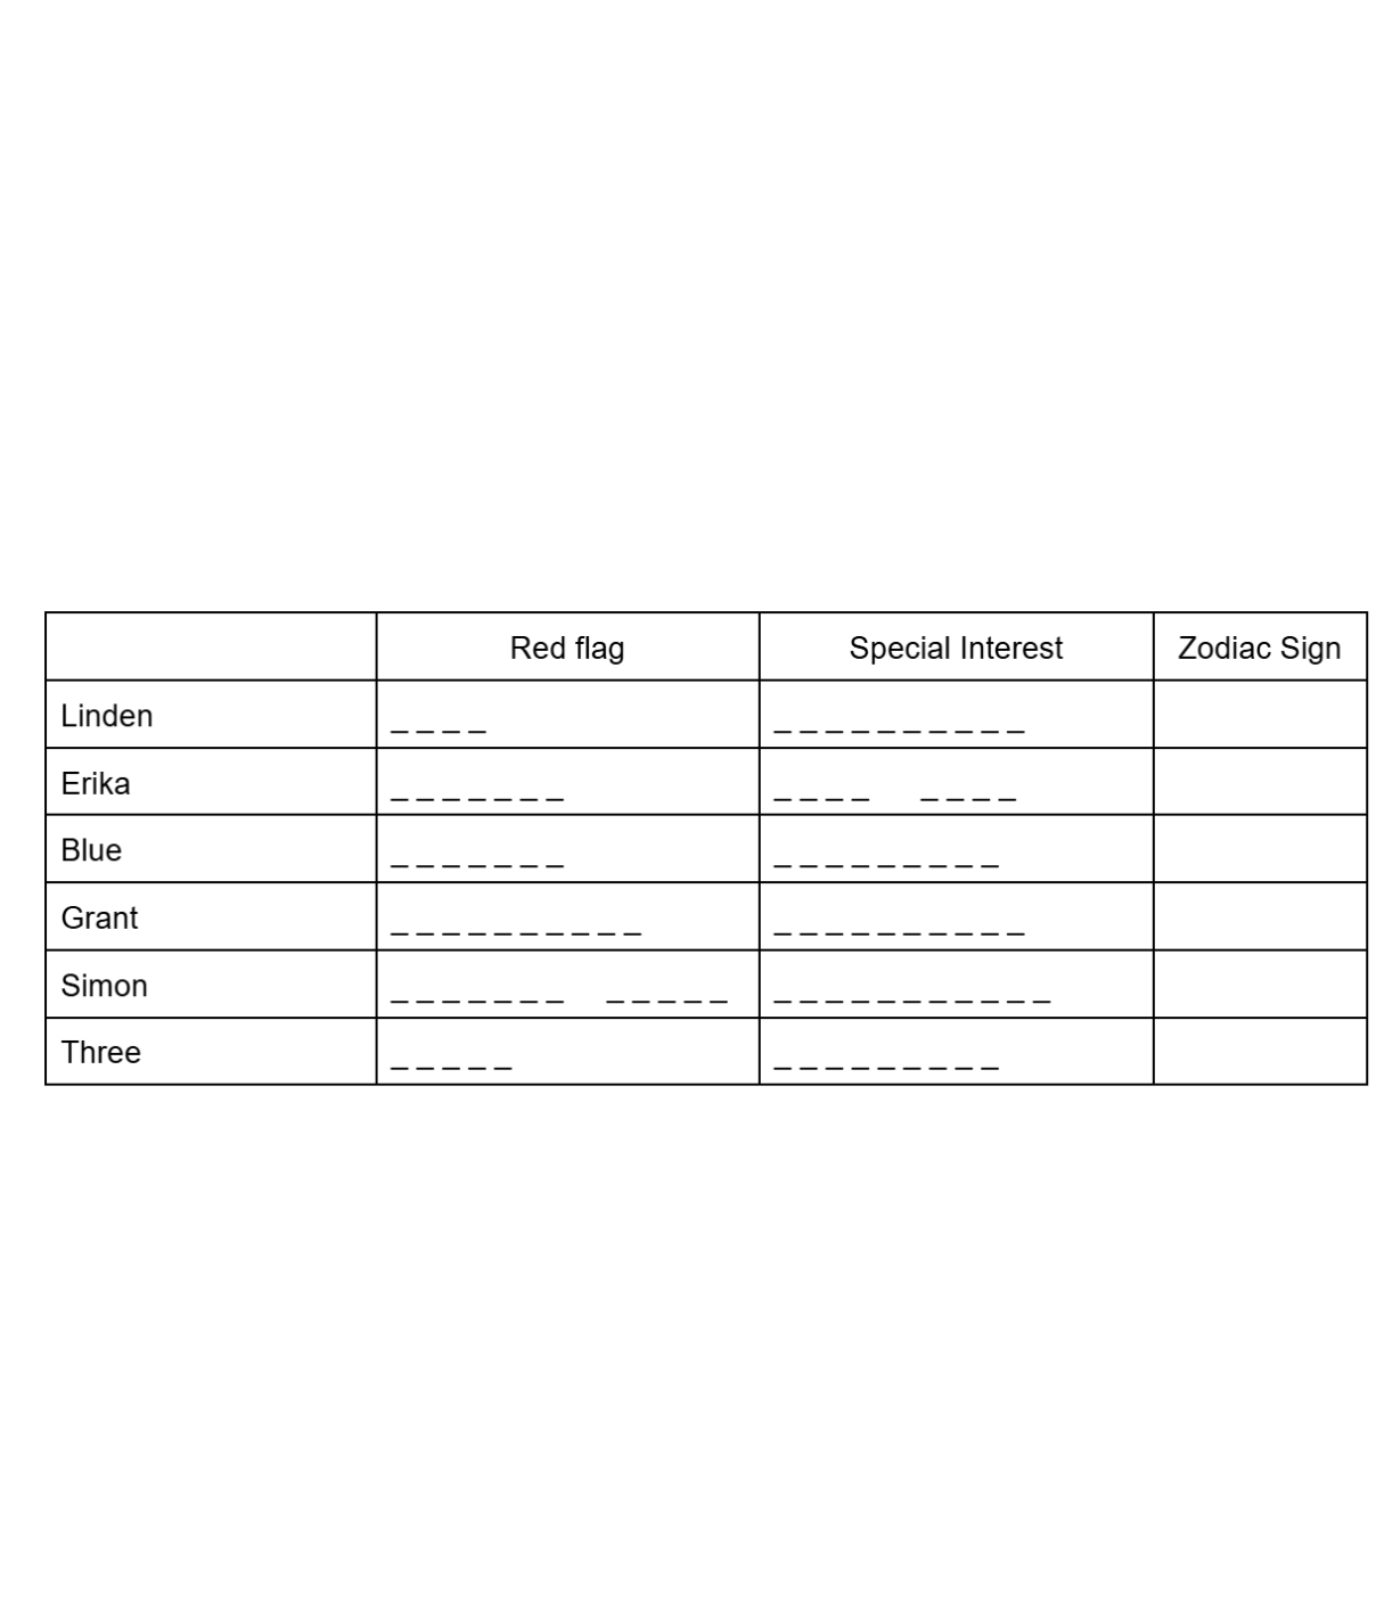
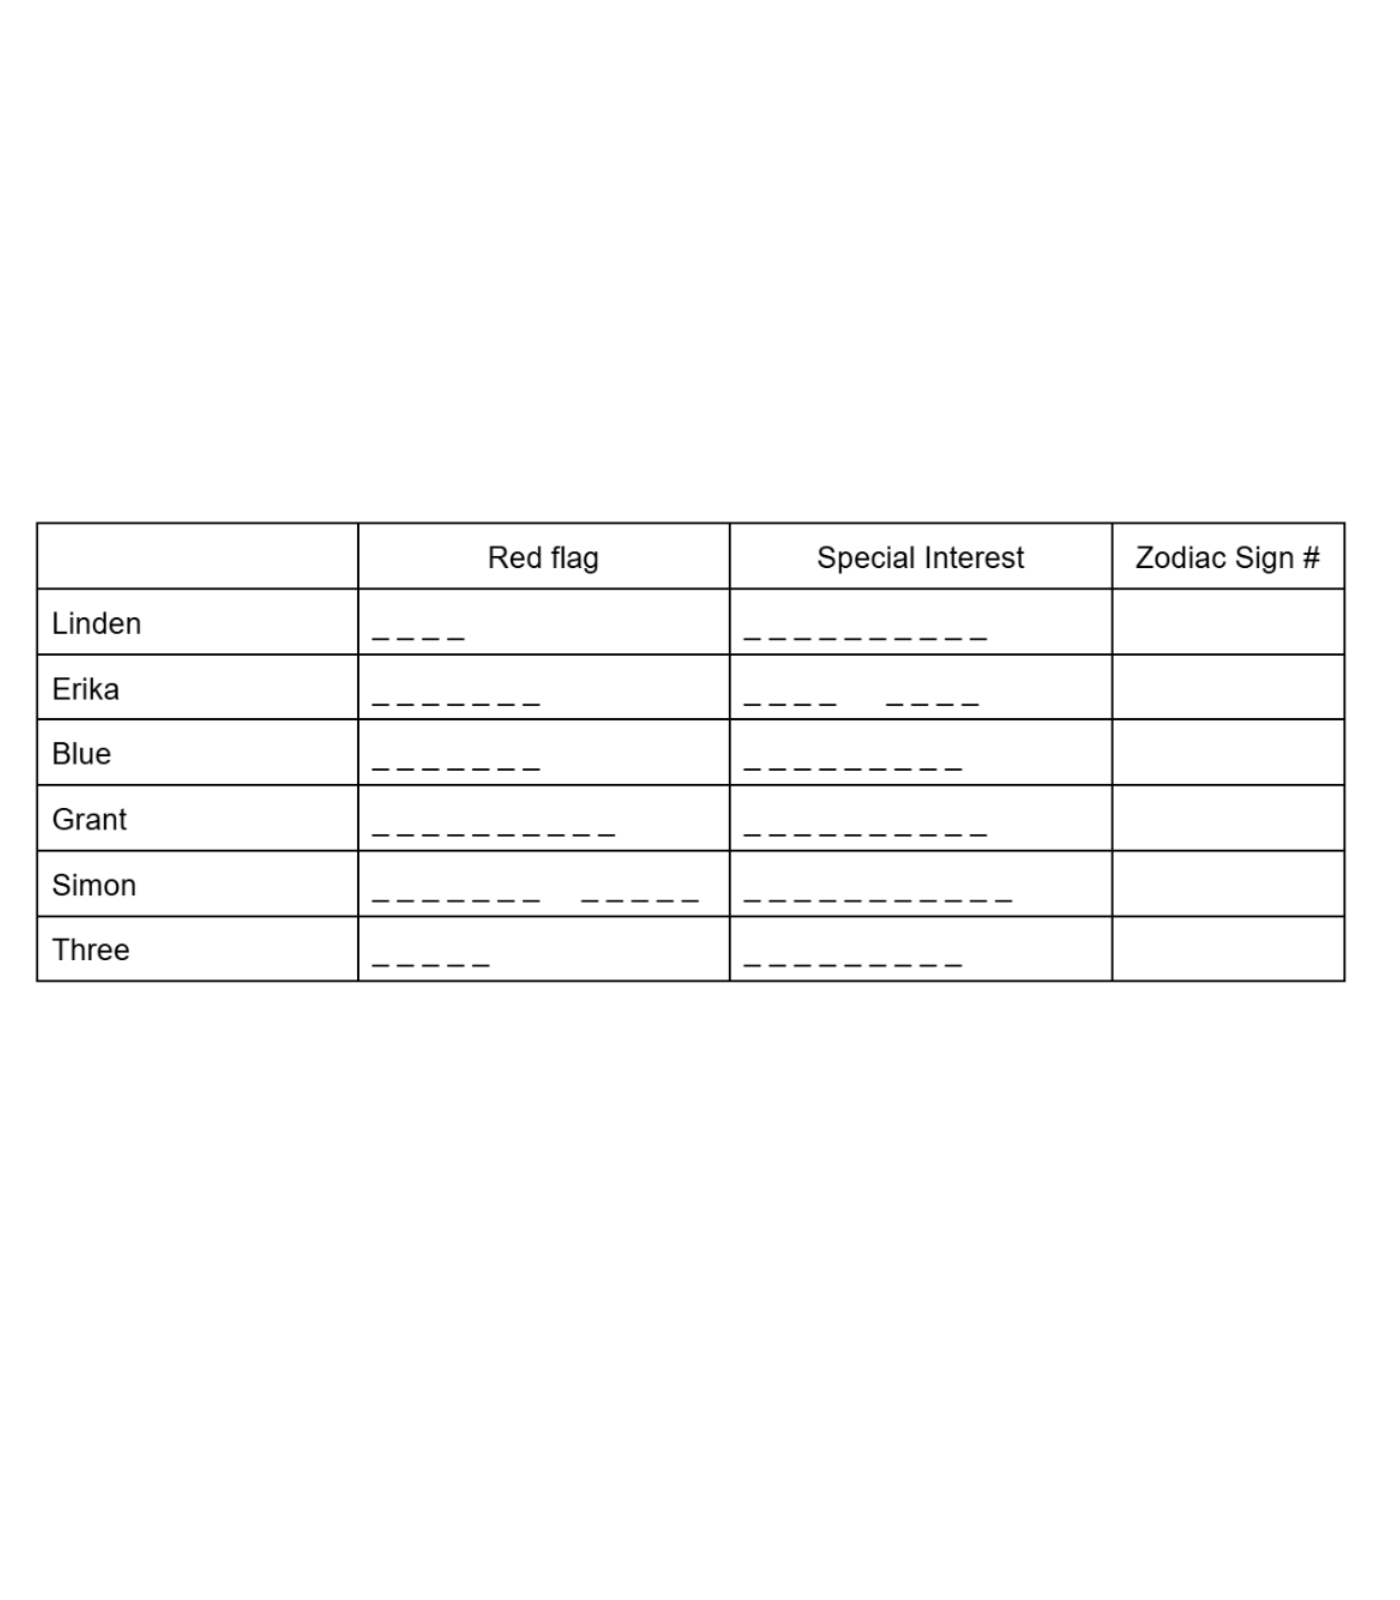
small changes on main smile

Changed region(s): [[0.0, 0.3125, 0.9829, 0.6875], [0.0, 0.3438, 0.0307, 0.375]]

diff --git a/apps/hunt-site/src/app/(hunt)/info/page.tsx b/apps/hunt-site/src/app/(hunt)/info/page.tsx
@@ -548,11 +548,13 @@ export default function Page() {
               <p className="text-center">
                 Megan Carlson ('26)
                 <br />
+                Julia Ceccarelli ('26)
+                <br />
                 Malcolm Certain ('26)
                 <br />
                 Kaylee Gallagher ('26)
                 <br />
-                Thomas Gordon* ('26)
+                Thomas Gordon ('26)*
                 <br />
                 Veronika Grytsai ('26)
                 <br />
@@ -560,7 +562,7 @@ export default function Page() {
                 <br />
                 Bailey Merlino ('26)
                 <br />
-                Arnav Singhal* ('26)
+                Arnav Singhal ('26)*
                 <br />
                 AJ Wu ('26)
                 <br />
@@ -599,6 +601,8 @@ export default function Page() {
                 Dylan Hunter ('29)
                 <br />
                 Madisyn Koza ('29)
+                <br />
+                Kenzi Mhamdi ('29)
                 <br />
                 Thea Miller-Priddy ('29)
                 <br />

diff --git a/apps/hunt-site/src/app/(hunt)/puzzle/(performing-arts)/escapism-in-cinema/data.tsx b/apps/hunt-site/src/app/(hunt)/puzzle/(performing-arts)/escapism-in-cinema/data.tsx
@@ -51,7 +51,7 @@ export const CHAINS: ChainConfig[] = [
       { type: "small", text: "Sean Bean" },
       {
         type: "big",
-        text: "The Lord of the Rings: The Two Towers (Extended Edition)",
+        text: "The Two Towers (Extended Edition)",
       },
       { type: "small", text: "" },
     ],
